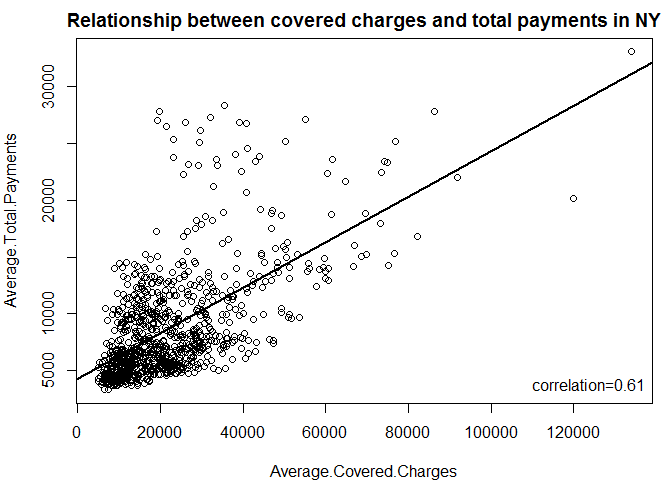
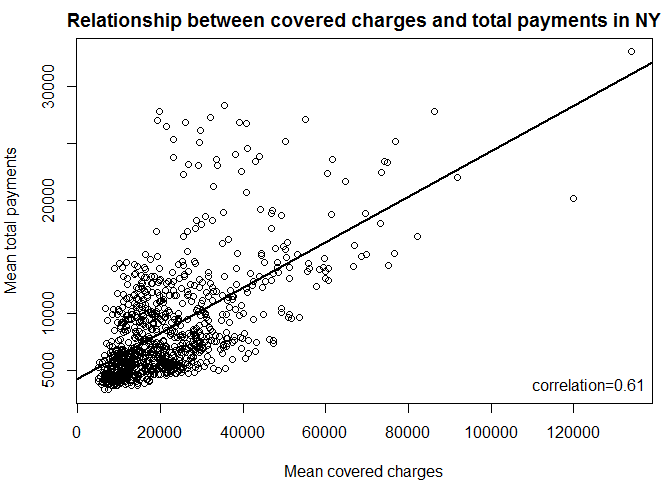
minor changes

Changed region(s): [[0.0, 0.2812, 0.0312, 0.6562], [0.4062, 0.9688, 0.6875, 1.0]]

diff --git a/README.md b/README.md
@@ -24,7 +24,8 @@ correlation <- with(ny, cor(Average.Covered.Charges, Average.Total.Payments))
 model <- lm(formula = Average.Total.Payments ~ Average.Covered.Charges, data = ny)
 par(mfrow = c(1,1), mar=c(4,4,2,1))
 plot(Average.Total.Payments ~ Average.Covered.Charges, data = ny,
-     main="Relationship between covered charges and total payments in NY")
+     main="Relationship between covered charges and total payments in NY",
+     xlab = "Mean covered charges", ylab = "Mean total payments")
 abline(reg = model, lwd = 2)
 legend(x = "bottomright", legend = paste0("correlation=", round(correlation,2)), bty="n")
 ```
